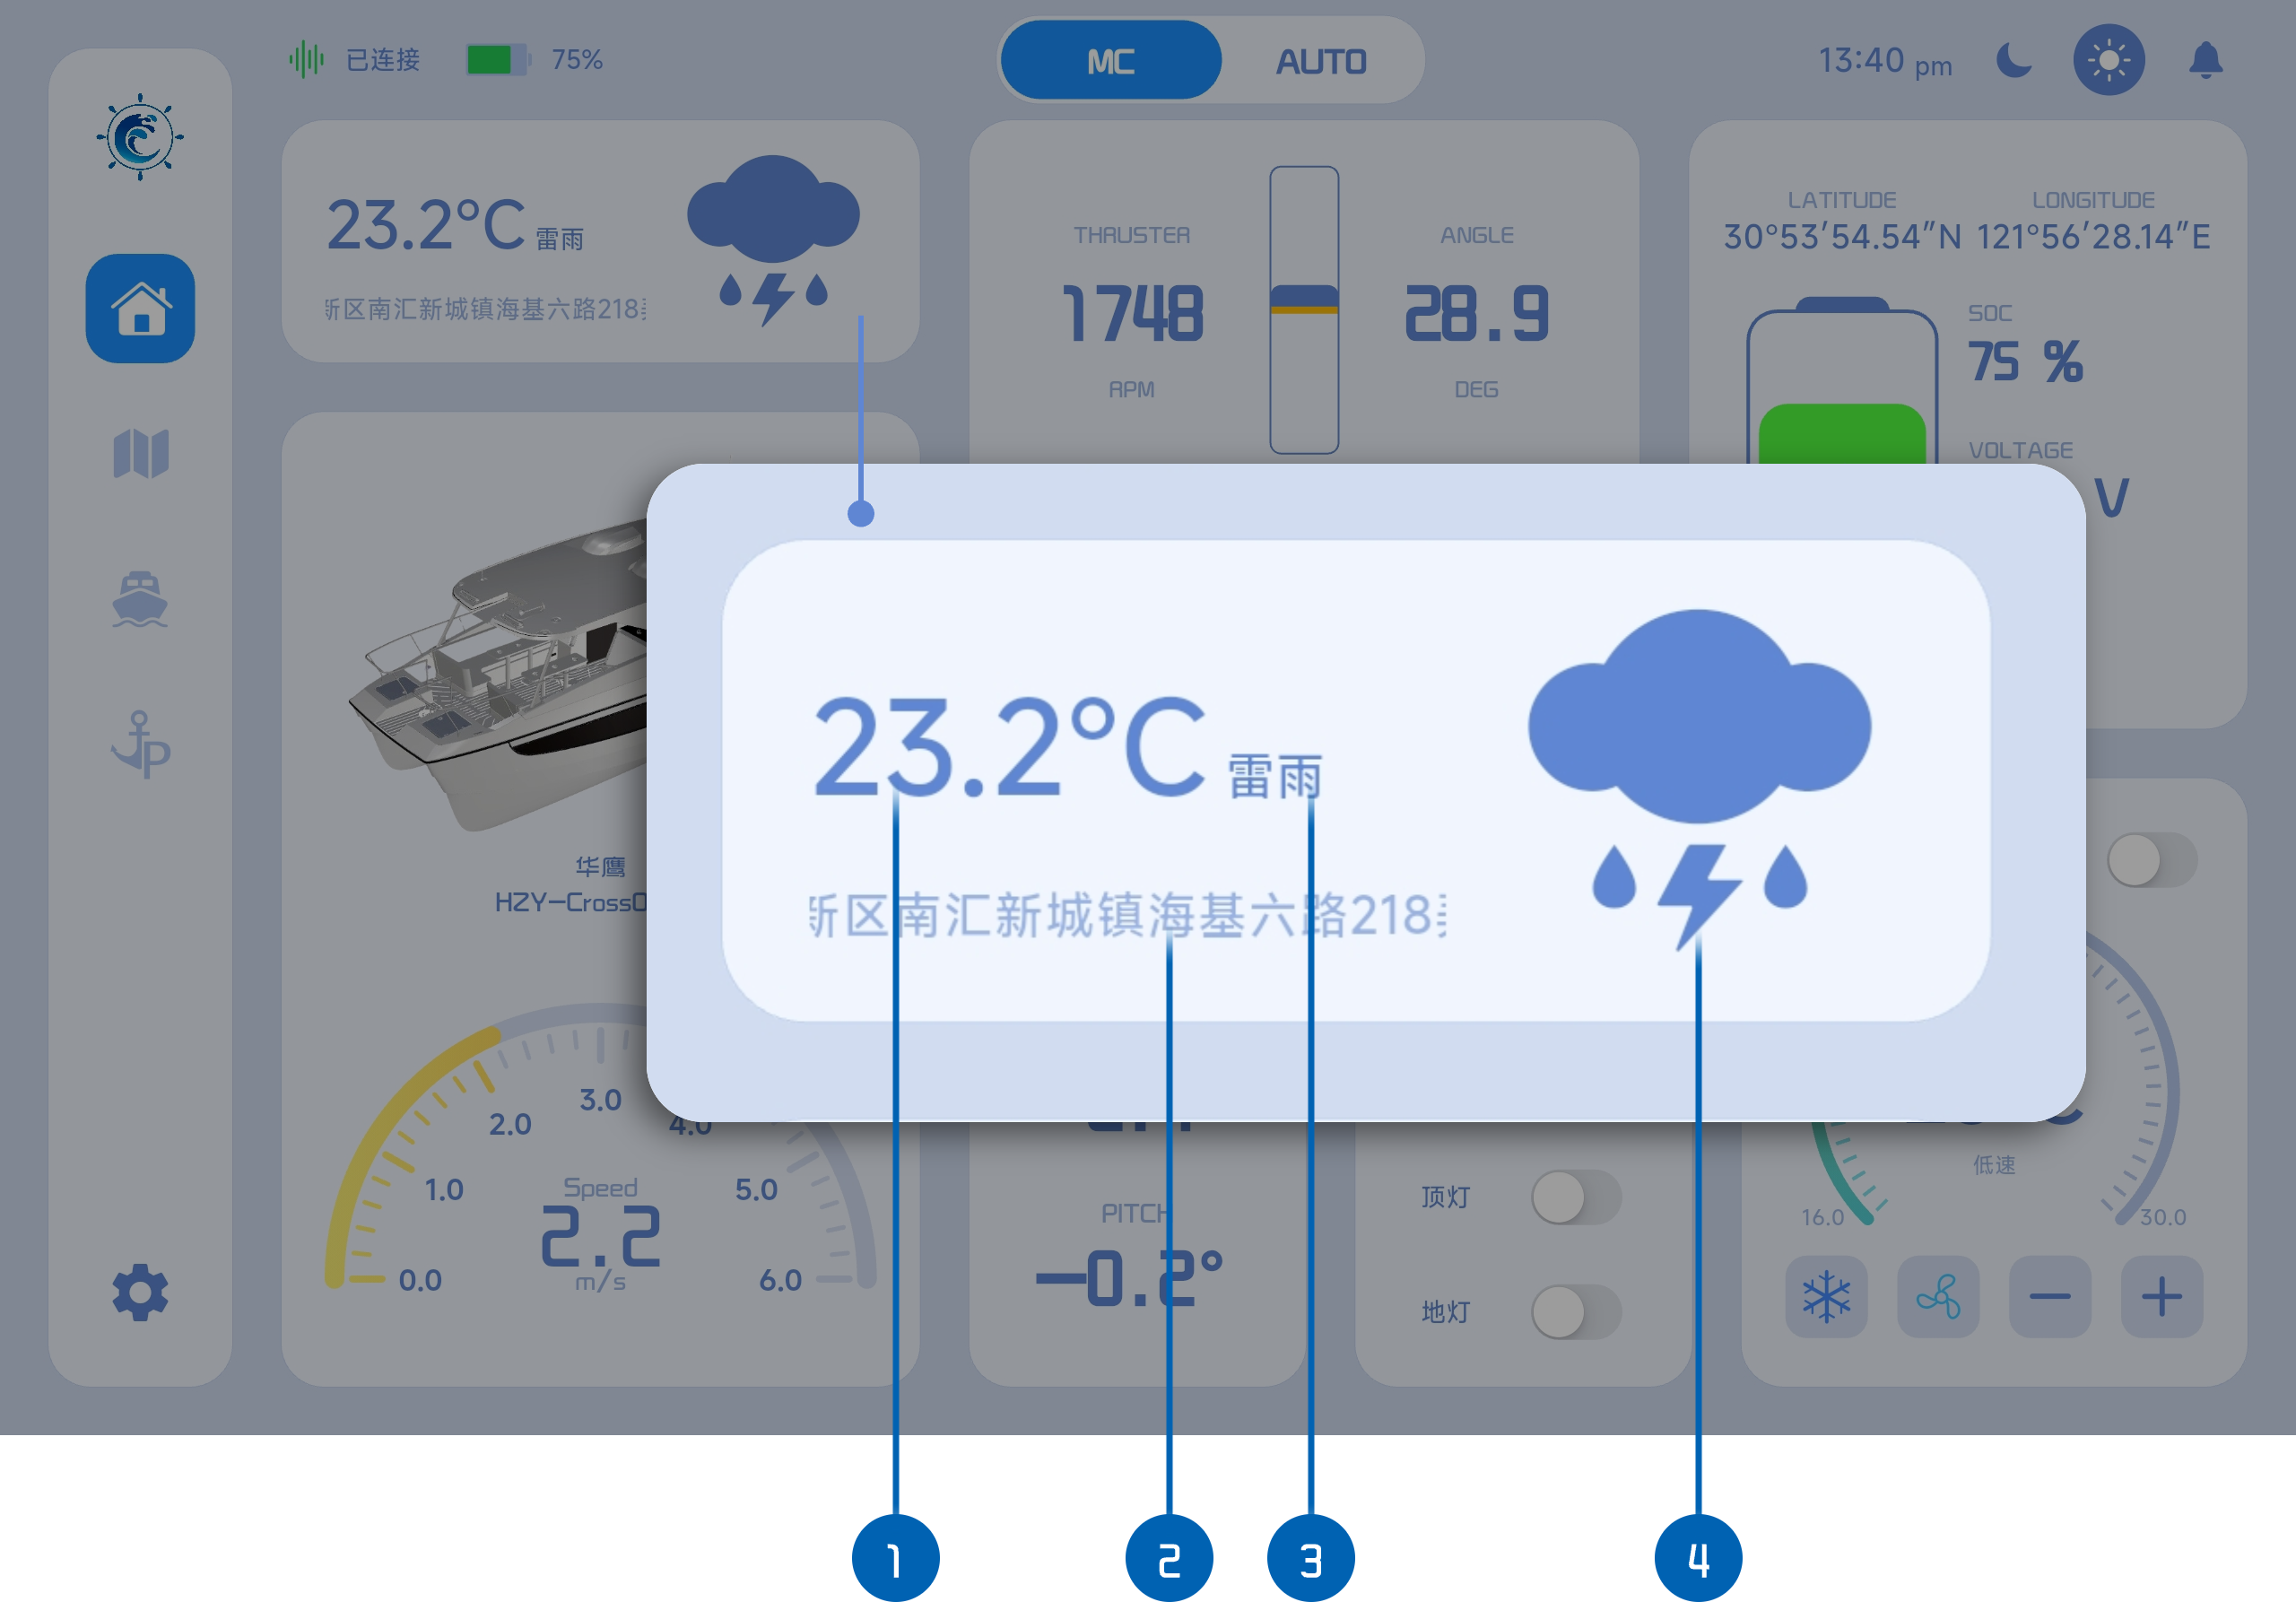
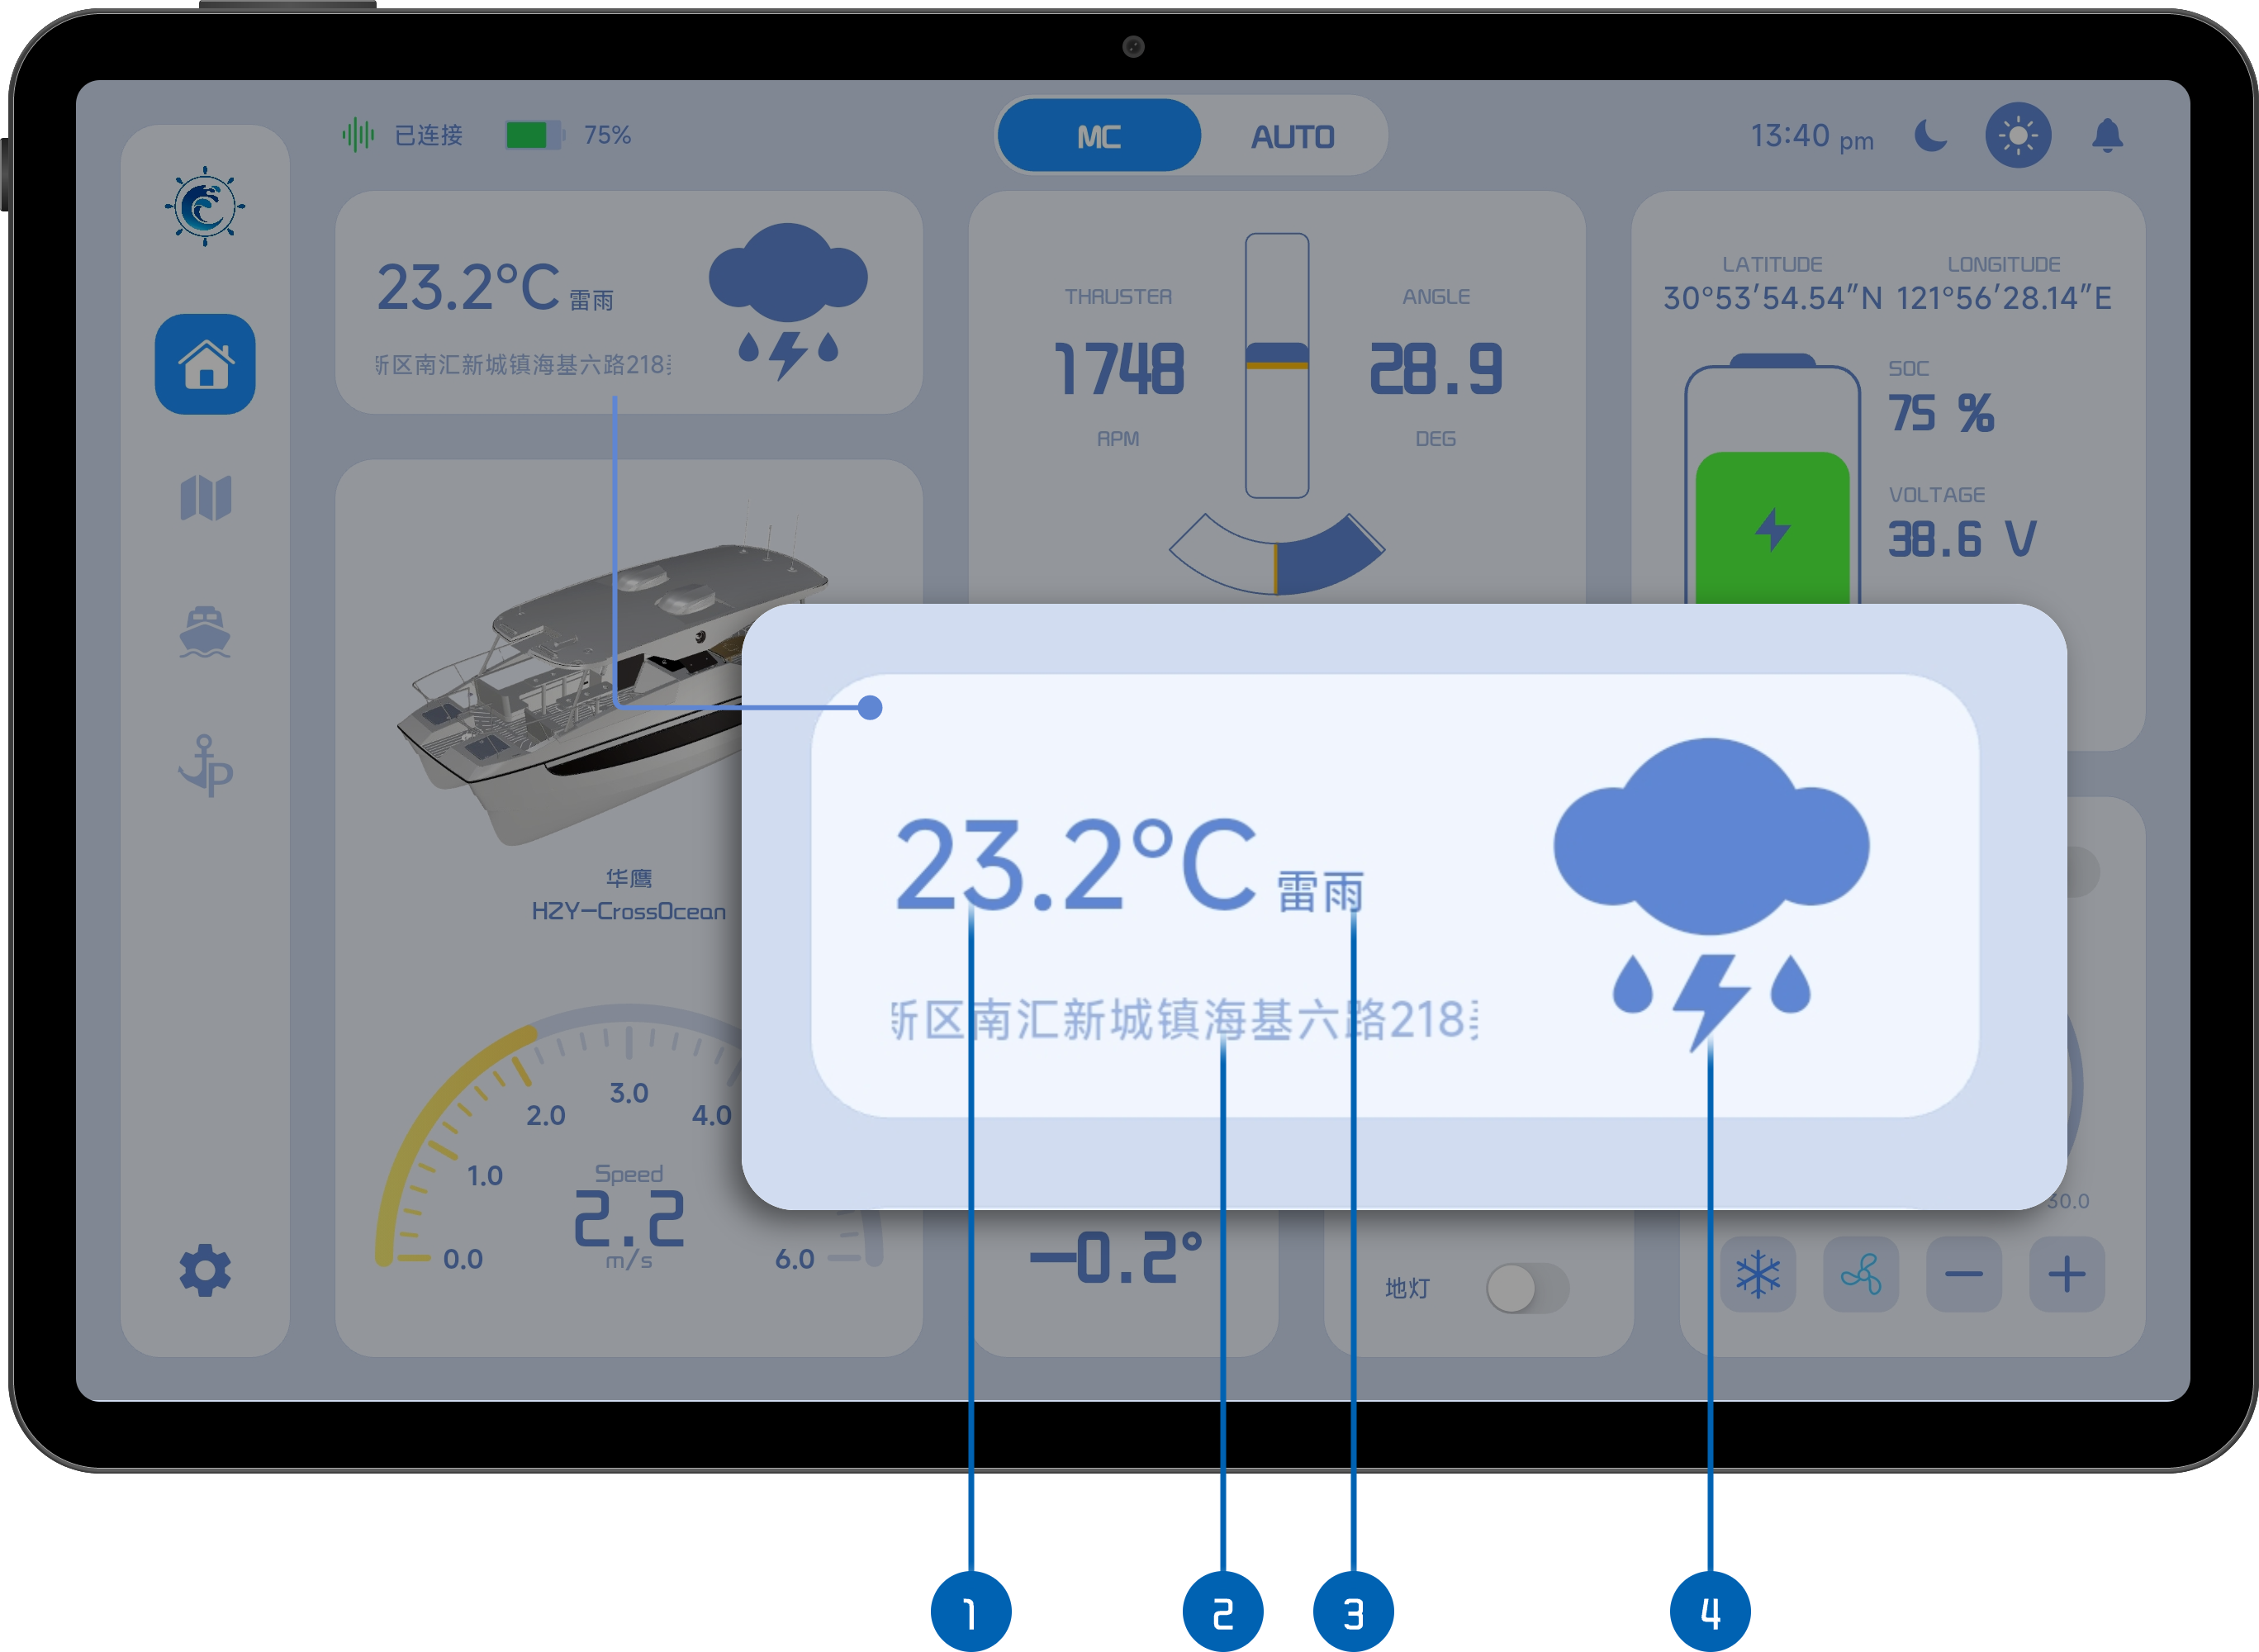
修改天气数据部分内容，修改对应图片，增加重新加载天气图示

diff --git a/docs/HomePage/feature/weatherInfo.md b/docs/HomePage/feature/weatherInfo.md
@@ -26,12 +26,6 @@
 （摄氏度）
 ```
 
-例如：
-
-```
-23.2℃
-```
-
 该温度数据来源于天气服务平台，仅供参考。
 
 ##### 2、当前地址
@@ -59,15 +53,18 @@
 - 卫星网络通信延迟
 - 天气服务暂时不可用
 
+![重新加载按钮](./img/weatherInfo/重新加载按钮.png)
+
 当天气数据获取失败时，界面会显示加载失败提示。
 
 此时可点击：
 
 ```
-重新加载
+1.重新加载
 ```
 
-按钮重新请求天气数据。
+重新请求天气数据。
+
 
 系统将重新获取当前位置对应的天气信息。
 